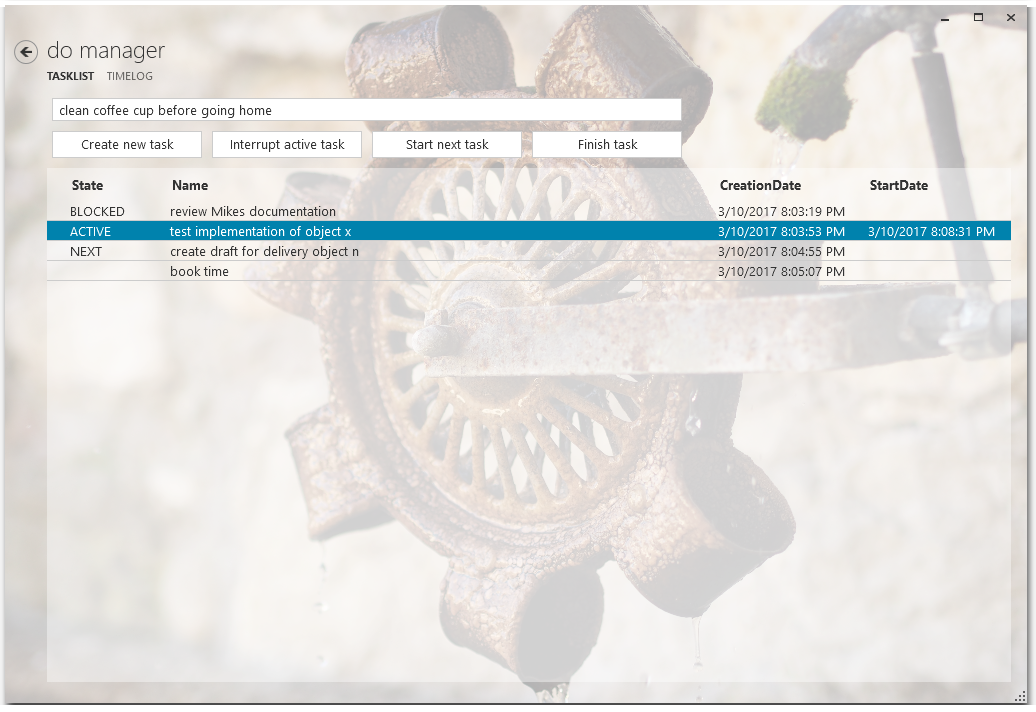
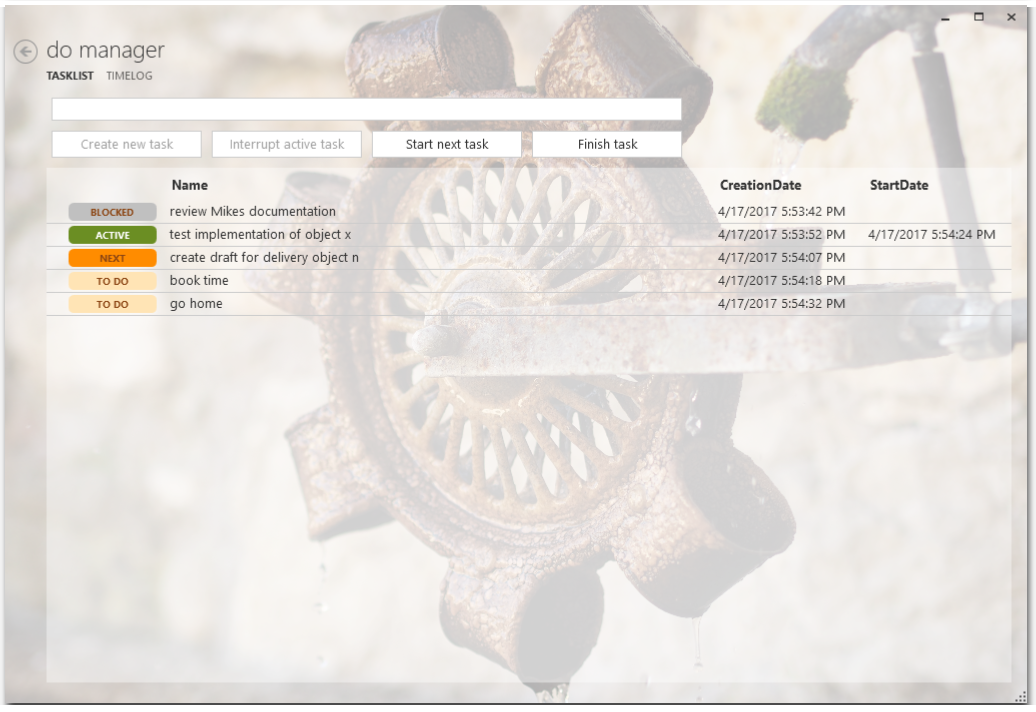
UPDATED README.md

diff --git a/README.md b/README.md
@@ -4,11 +4,15 @@
 
 [![Build status](https://ci.appveyor.com/api/projects/status/1n7pxro8vo9k2l3h?svg=true)](https://ci.appveyor.com/project/viper3400/domanager)
 
+## Requirements
+
+* NET Framework 4.5.2
+
 ## Quickstart
 
 Download the [ZIP file](https://github.com/viper3400/DoManager/releases/latest) and extract it. No installation or setup, it’s portable.
 
-The ZIP file contains a template database (TEMPLATE.FDB). You could use this template right away or copy and rename this template to a more friendly name.
+The ZIP file contains a template database (TEMPLATE.FDB). You could use this template right away or copy and rename this template to a more friendly name. Make sure, your Windows user has the rights to write to the *.FDB file. Otherwise DoManger won't run correct and will crash on apllication shutdown (see #12).
 
 When starting DoManger it will ask you to select a database. Select your copied database template file to start.
 
@@ -16,7 +20,44 @@ When creating time logs reports are saved under your user's documents folder. A 
 
 ## Screenshot
 
-![alt text](docs/images/MainWindow.png "Logo Title Text 1")
+![alt text](docs/images/MainWindow.png "DoManager Main Window")
 
+## Usage
 
+### Change a Task Name
+
+Once you've created a task you could still edit it's name. Double click on the name in the task list and provide the new name. ENTER wil save your changes.
+
+### Start Task
+
+You will only be able to start the task which is marked as NEXT (by clicking on the corresponding button). NEXT task will become the new ACTIVE task and the new NEXT task will be determined.
+
+### Change NEXT Task
+
+NEXT task is always the first, not BLOCKED task in the list. Use the context menu (right mouse button) to mark the next task manually. You can only mark one task as next task (because you won't be able to do more than one thing next ...).
+
+### Interrupt active task
+
+You could interrupt the active task in three ways:
+
+* Provide a new task name in the upper textbox (same as creating a new task) and click on button "Interrupt active task".
+  * This will stop the active task immediately,
+  * will create a new task, 
+  * set the new task active and 
+  * set the old task NEXT
+* Mark an active task as BLOCKED (context menu)
+* Mark an active task as NEXT
+
+### Interrupt active task
+
+Use the context menu (right mouse button) to mark a task as BLOCKED. It won't be become NEXT until you unblock it or set it NEXT manually.
+
+## Third Party 
+
+* http://www.firebirdsql.org/
+* https://autofac.org/
+* http://nlog-project.org/
+* http://www.dapplo.net/blocks/Dapplo.LogFacade/
+* https://github.com/firstfloorsoftware/mui
+* http://www.galasoft.ch/mvvm
 
